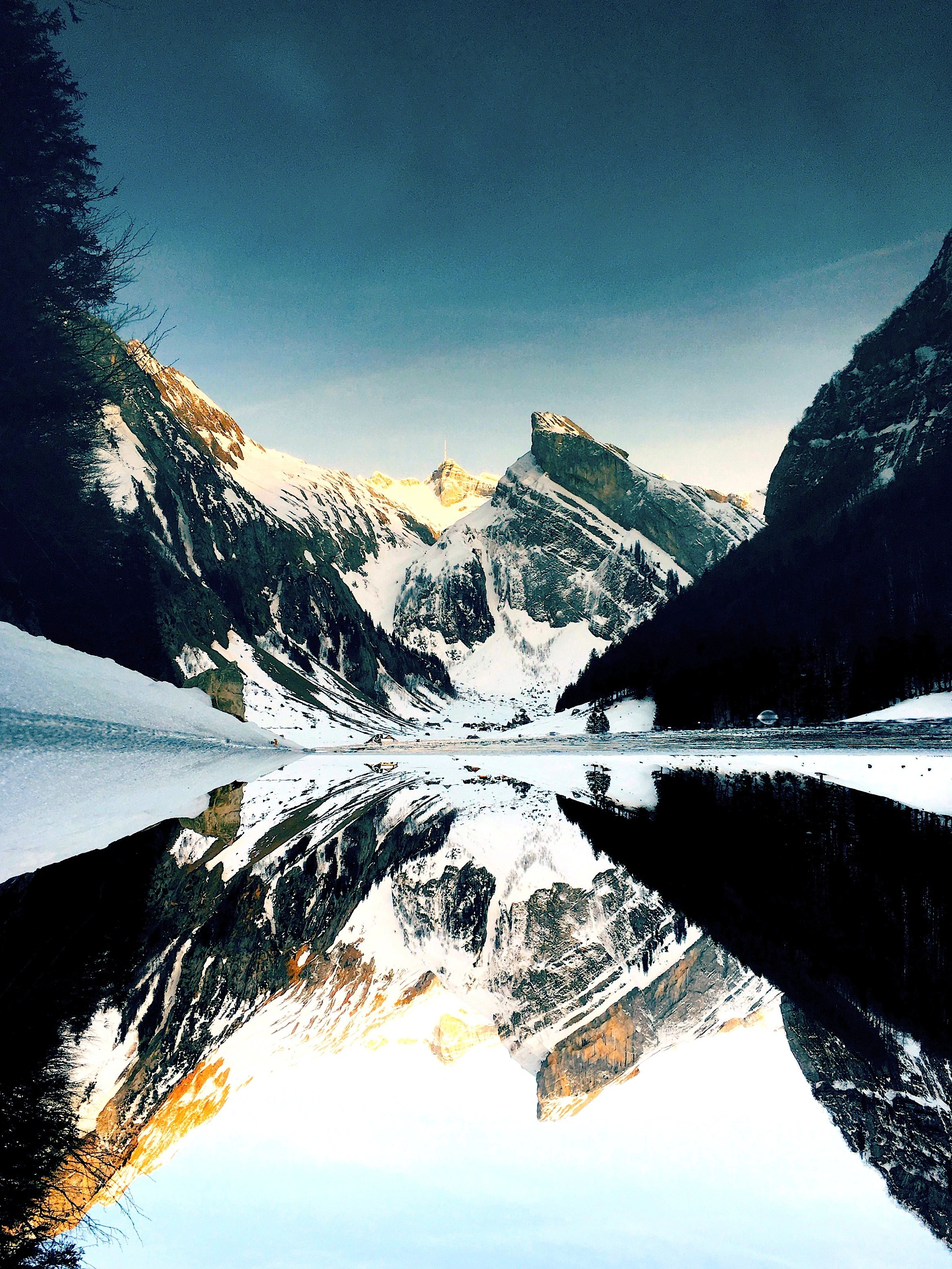
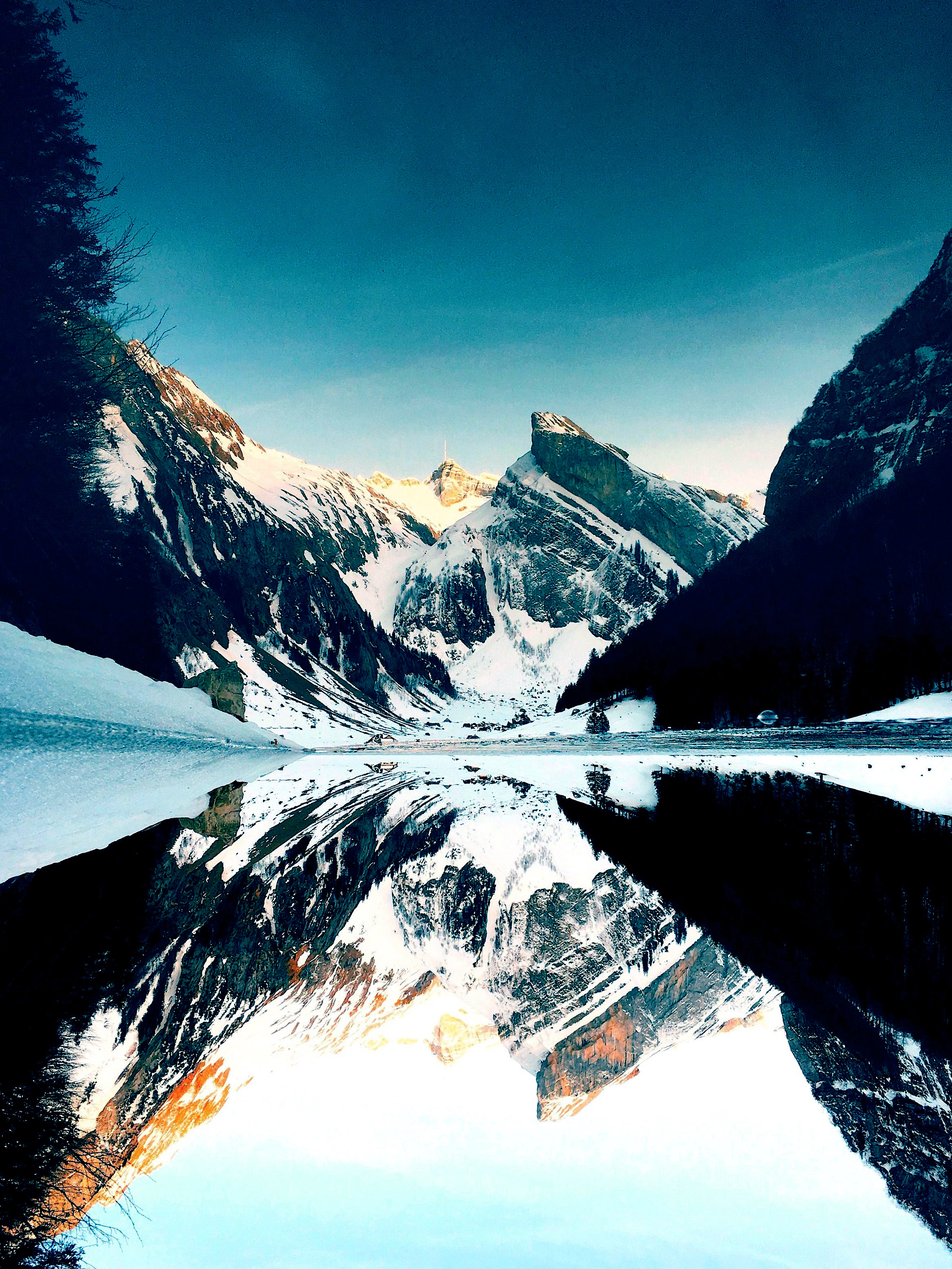
style new image

diff --git a/css/landing-page.css b/css/landing-page.css
@@ -88,7 +88,7 @@ b{
 }
 
 .well {
-	background-color: RGBA(60, 70, 80, 0);
+	background-color: rgba(6, 29, 45, 0.41);
 	border: none;
 }    border: none;
 
